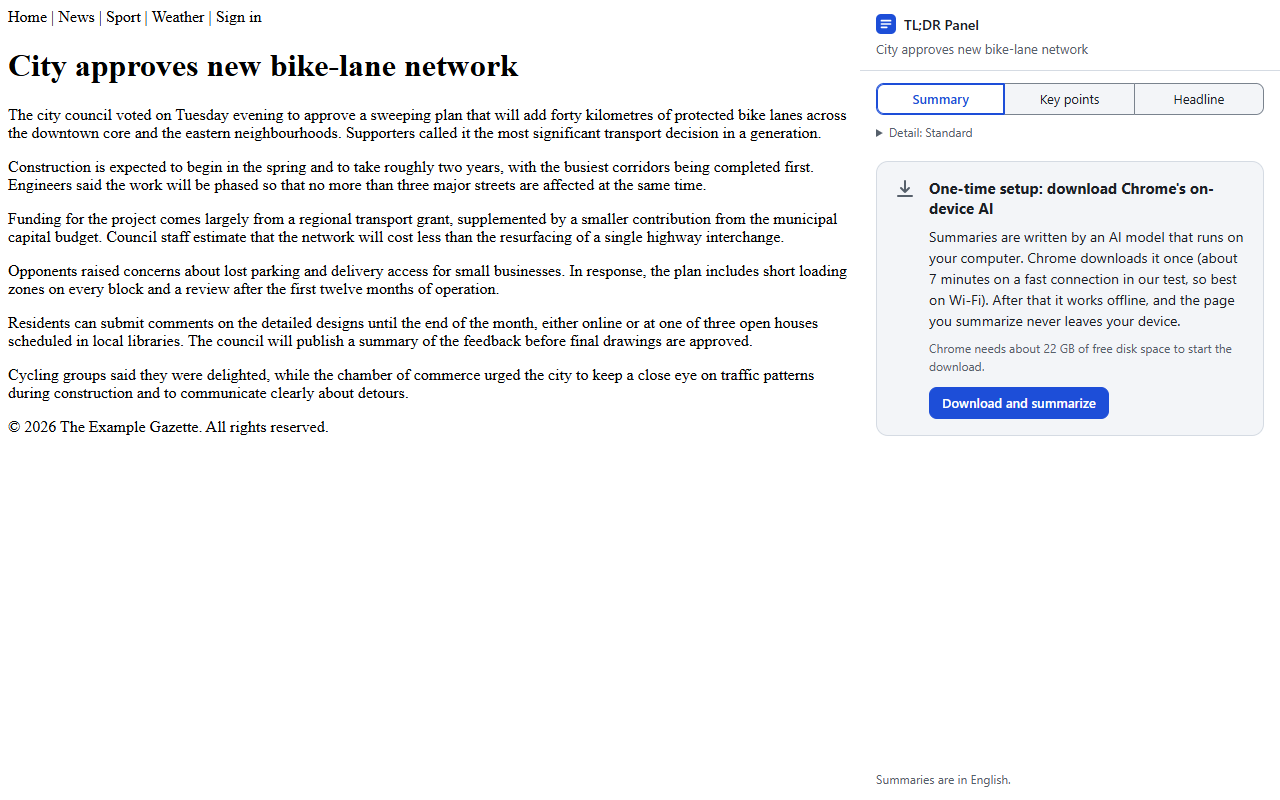
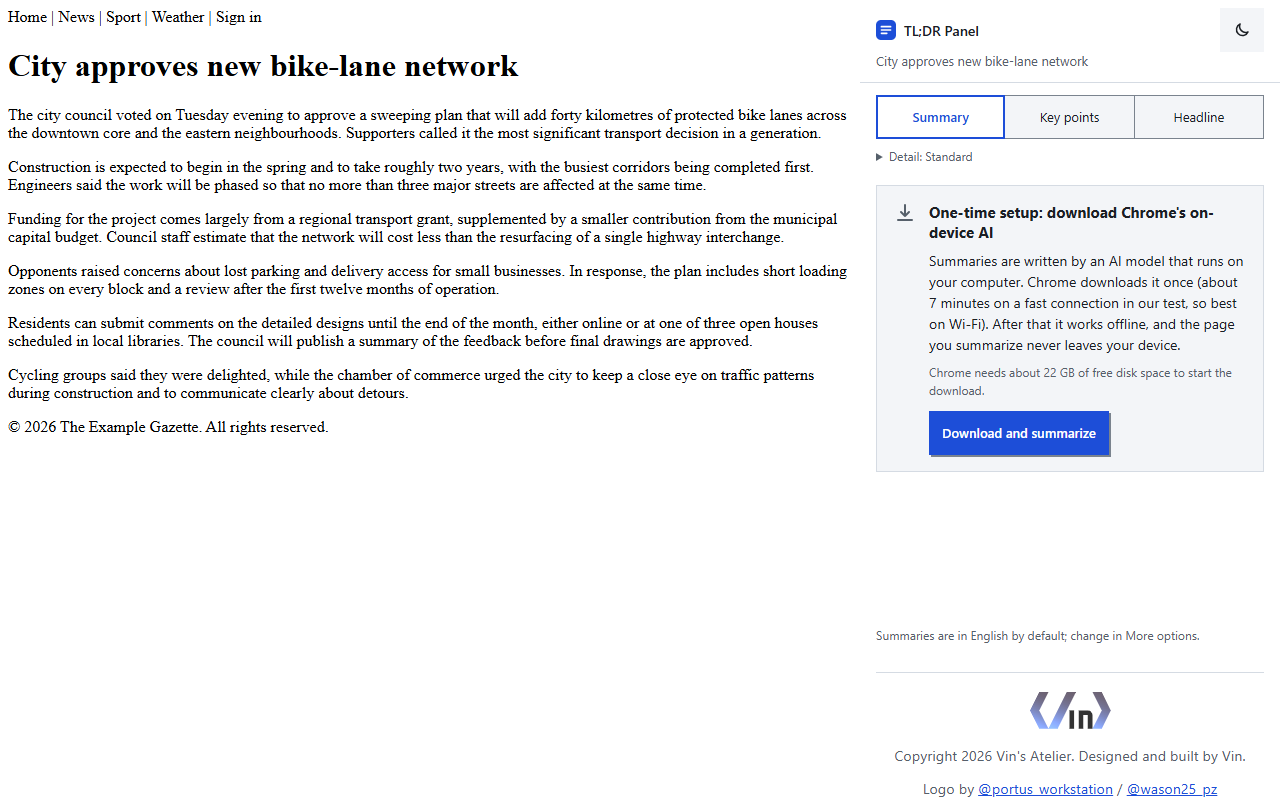
style: house default-dark with light toggle; square corners

diff --git a/src/sidepanel.css b/src/sidepanel.css
@@ -1,6 +1,6 @@
-/* Design tokens. Spacing 4/8/12/16/24, one accent, semantic colours, no shadows. */
+/* Design tokens. Spacing 4/8/12/16/24, one accent, semantic colours, offset-shadow buttons, square corners. */
 :root {
-  color-scheme: light dark;
+  color-scheme: dark;
 
   --s1: 4px;
   --s2: 8px;
@@ -16,11 +16,29 @@
   --lh-ui: 1.5;
   --lh-read: 1.6;
 
-  --r-sm: 6px;
-  --r-md: 8px;
-  --r-lg: 12px;
-  --target: 32px;
+  --r-sm: 0;
+  --r-md: 0;
+  --r-lg: 0;
+  --target: 44px;
 
+  --bg: #15181d;
+  --surface: #1f242b;
+  --text: #e8eaed;
+  --muted: #a3acb8;
+  --border: #2f363f;
+  --border-ui: #737e8b;
+  --accent: #8ab4f8;
+  --on-accent: #0b1220;
+  --focus: #8ab4f8;
+  --danger: #ff8a80;
+  --danger-bg: #2a1a19;
+  --banner-bg: #3a3212;
+  --banner-text: #f5e7a8;
+  --skeleton: #262c34;
+  --skeleton-hi: #323a44;
+}
+:root[data-theme="light"] {
+  color-scheme: light;
   --bg: #ffffff;
   --surface: #f3f5f8;
   --text: #1b1f24;
@@ -36,25 +54,6 @@
   --banner-text: #4a3a00;
   --skeleton: #e3e7ed;
   --skeleton-hi: #f3f5f8;
-}
-@media (prefers-color-scheme: dark) {
-  :root {
-    --bg: #15181d;
-    --surface: #1f242b;
-    --text: #e8eaed;
-    --muted: #a3acb8;
-    --border: #2f363f;
-    --border-ui: #737e8b;
-    --accent: #8ab4f8;
-    --on-accent: #0b1220;
-    --focus: #8ab4f8;
-    --danger: #ff8a80;
-    --danger-bg: #2a1a19;
-    --banner-bg: #3a3212;
-    --banner-text: #f5e7a8;
-    --skeleton: #262c34;
-    --skeleton-hi: #323a44;
-  }
 }
 * { box-sizing: border-box; }
 html, body { margin: 0; }
@@ -186,6 +185,8 @@ button {
   border: 1px solid var(--border-ui); background: var(--surface); color: var(--text); cursor: pointer;
   display: inline-flex; align-items: center; justify-content: center; gap: 6px;
 }
+button { box-shadow: 2px 2px 0 var(--border-ui); }
+button.link-btn, button.ghost, button.icon-btn { box-shadow: none; }
 button:hover { border-color: var(--text); }
 button[aria-disabled="true"] { opacity: 0.55; cursor: default; }
 button.primary { background: var(--accent); border-color: var(--accent); color: var(--on-accent); font-weight: 600; }
@@ -198,6 +199,7 @@ button.ghost:active, button.icon-btn:active { background: var(--border); }
 button.ghost { font-weight: 500; }
 button.ghost { margin-inline-start: calc(var(--s2) * -1); }
 button.icon-btn { width: var(--target); height: var(--target); padding: 0; flex: none; margin-inline-end: calc(var(--s2) * -1); background: var(--surface); }
+button.theme-btn { margin-inline-end: 0; }
 button:focus-visible { outline: 2px solid var(--focus); outline-offset: 2px; }
 .i-check { display: none; }
 #copy-btn[data-state="done"] { color: var(--accent); }
@@ -315,11 +317,8 @@ html[data-logo="long"] {
 .studio-signoff :is(.bl-in, .bl-atelier) {
   fill: #ffffff;
 }
-/* No theme attribute here: the panel follows the system theme. */
-@media (prefers-color-scheme: light) {
-  .studio-signoff :is(.bl-in, .bl-atelier) {
-    fill: #333333;
-  }
+html[data-theme="light"] .studio-signoff :is(.bl-in, .bl-atelier) {
+  fill: #333333;
 }
 /* "in" (464..734 wide) is uncovered as the chevron passes (gone at 540), then fades out by 900 as "Atelier" comes in. */
 .studio-signoff .bl-in {

diff --git a/tests/e2e/panel.spec.js b/tests/e2e/panel.spec.js
@@ -76,7 +76,9 @@ async function openPanel({ ctx, sw, extId }, { scenario, scheme = 'light', fixtu
   await target.bringToFront();
   const tabId = await activeTabId(sw);
   const panel = await ctx.newPage();
-  await panel.emulateMedia({ colorScheme: scheme });
+  await panel.emulateMedia({ colorScheme: scheme === 'dark' ? 'dark' : 'light' });
+  // The panel ignores the OS scheme; the light theme is opt-in via stored 'theme'.
+  if (scheme === 'light') await panel.addInitScript(() => localStorage.setItem('theme', 'light'));
   if (scenario) await panel.addInitScript(installFake, scenario);
   if (init) await panel.addInitScript(init);
   await panel.goto(`chrome-extension://${extId}/sidepanel.html?tabId=${tabId}`);
@@ -85,6 +87,29 @@ async function openPanel({ ctx, sw, extId }, { scenario, scheme = 'light', fixtu
 
 const fakeCalls = (panel) => panel.evaluate(() => window.__fakeCalls);
 const resultLis = (panel) => panel.locator('#result li');
+
+test.describe('theme', () => {
+  test('light OS + empty storage loads dark; toggle switches to light and persists', async () => {
+    const h = await launch(DIST_E2E);
+    try {
+      const { panel } = await openPanel(h, { scenario: 'success', scheme: 'os-light' });
+      await panel.emulateMedia({ colorScheme: 'light' });
+      const theme = () => panel.evaluate(() => document.documentElement.dataset.theme);
+      const bg = () => panel.evaluate(() => getComputedStyle(document.body).backgroundColor);
+      expect(await theme()).toBe('dark');
+      expect(await bg()).toBe('rgb(21, 24, 29)');
+      const t = panel.locator('#theme-toggle');
+      expect((await t.boundingBox()).height).toBeGreaterThanOrEqual(44);
+      await t.click();
+      expect(await theme()).toBe('light');
+      expect(await bg()).toBe('rgb(255, 255, 255)');
+      await panel.reload();
+      expect(await theme()).toBe('light');
+    } finally {
+      await h.ctx.close();
+    }
+  });
+});
 
 test.describe('with fake Summarizer (e2e build)', () => {
   let h;

diff --git a/src/sidepanel.html b/src/sidepanel.html
@@ -6,7 +6,7 @@
   <title>TL;DR Panel</title>
   <link rel="stylesheet" href="sidepanel.css">
   <meta name="author" content="Vin, Vin's Atelier">
-  <script src="logo-init.js"></script>
+  <script src="theme-init.js"></script>
 </head>
 <body>
   <header class="topbar">
@@ -16,6 +16,9 @@
         <path d="M6.5 8h11M6.5 12h11M6.5 16h6.5" stroke="var(--on-accent)" stroke-width="2" stroke-linecap="round" fill="none"/>
       </svg>
       <h1>TL;DR Panel</h1>
+      <button id="theme-toggle" type="button" class="icon-btn theme-btn" title="Toggle light or dark theme">
+        <svg viewBox="0 0 24 24" width="18" height="18" aria-hidden="true" focusable="false"><path d="M20 14.5A8 8 0 0 1 9.5 4a8 8 0 1 0 10.5 10.5Z" fill="none" stroke="currentColor" stroke-width="2" stroke-linejoin="round"/></svg>
+      </button>
       <button id="again-btn" type="button" class="icon-btn" aria-label="Summarize again" title="Summarize again" hidden>
         <svg viewBox="0 0 24 24" width="18" height="18" aria-hidden="true" focusable="false"><path d="M20 12a8 8 0 1 1-2.6-5.9M20 4v5h-5" fill="none" stroke="currentColor" stroke-width="2" stroke-linecap="round" stroke-linejoin="round"/></svg>
       </button>

diff --git a/src/brand/theme.js b/src/brand/theme.js
@@ -1,0 +1,22 @@
+// Usage: import { initThemeToggle } from "./theme.js"; initThemeToggle(document.querySelector("#theme-toggle"));
+const COLORS = { dark: "#11150e", light: "#eef7f1" };
+
+export function setTheme(t) {
+  t = t === "light" ? "light" : "dark";
+  document.documentElement.setAttribute("data-theme", t);
+  try { localStorage.setItem("theme", t); } catch { /* storage blocked */ }
+  const meta = document.querySelector('meta[name="theme-color"]');
+  if (meta) meta.setAttribute("content", COLORS[t]);
+  return t;
+}
+
+export function initThemeToggle(button) {
+  if (!button) return;
+  const sync = (t) => {
+    button.setAttribute("aria-pressed", String(t === "light"));
+    button.setAttribute("aria-label", t === "light" ? "Light theme on, switch to dark" : "Dark theme on, switch to light");
+  };
+  const cur = () => (document.documentElement.getAttribute("data-theme") === "light" ? "light" : "dark");
+  sync(cur());
+  button.addEventListener("click", () => sync(setTheme(cur() === "light" ? "dark" : "light")));
+}

diff --git a/tests/e2e/logo.spec.js b/tests/e2e/logo.spec.js
@@ -231,10 +231,10 @@ test('reduced motion: no tug at all, the tooltip stays', async () => {
   await expect(link(page)).toHaveAttribute('title', 'Drag sideways to resize');
 });
 
-test('logo fill follows the system theme: #333 on light, white on dark', async () => {
+test('logo fill follows the theme toggle: #333 on light, white on dark', async () => {
   const page = await open();
-  await page.emulateMedia({ colorScheme: 'light' });
-  expect(await page.locator(`${SIGN} .bl-atelier`).evaluate((el) => getComputedStyle(el).fill)).toBe('rgb(51, 51, 51)');
-  await page.emulateMedia({ colorScheme: 'dark' });
-  expect(await page.locator(`${SIGN} .bl-atelier`).evaluate((el) => getComputedStyle(el).fill)).toBe('rgb(255, 255, 255)');
+  const fill = () => page.locator(`${SIGN} .bl-atelier`).evaluate((el) => getComputedStyle(el).fill);
+  expect(await fill()).toBe('rgb(255, 255, 255)');
+  await page.evaluate(() => document.documentElement.setAttribute('data-theme', 'light'));
+  expect(await fill()).toBe('rgb(51, 51, 51)');
 });

diff --git a/src/theme-init.js b/src/theme-init.js
@@ -1,0 +1,7 @@
+// House theme pre-paint (external: extension pages allow no inline script). Dark unless stored 'light'; never reads prefers-color-scheme.
+(function () {
+  var t = "dark";
+  try { if (localStorage.getItem("theme") === "light") t = "light"; } catch { /* storage blocked: dark */ }
+  document.documentElement.setAttribute("data-theme", t);
+  try { var logo = localStorage.getItem("logo-form"); if (logo === "short" || logo === "middle" || logo === "long") document.documentElement.setAttribute("data-logo", logo); } catch { /* default form */ }
+})();

diff --git a/src/sidepanel.js b/src/sidepanel.js
@@ -1,3 +1,4 @@
+import { initThemeToggle } from './brand/theme.js';
 import './brand/logo-resize.js';
 import * as adapter from './lib/summarizer.js';
 import { summarizeLong } from './lib/pipeline.js';
@@ -542,4 +543,5 @@ async function init() {
   run();
 }
 
+initThemeToggle($('theme-toggle'));
 init();
